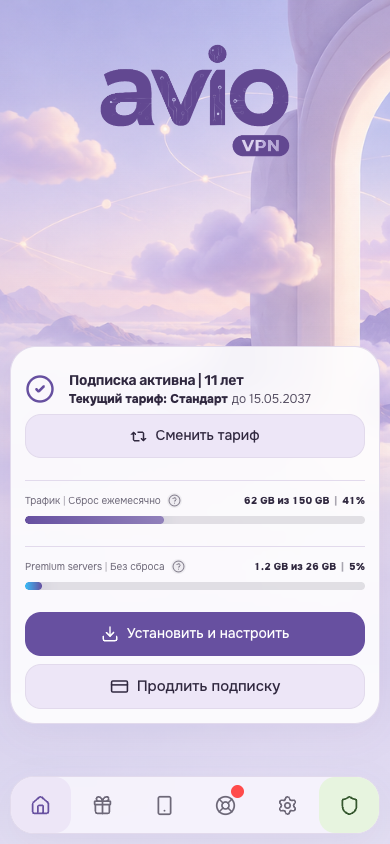
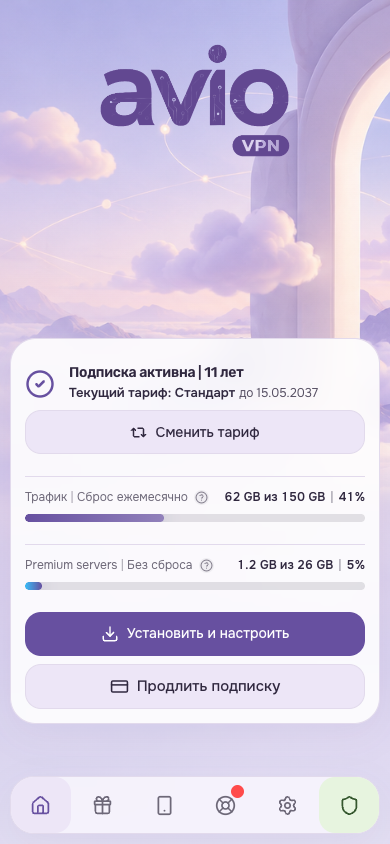
Improve typography across theme screens

Changed region(s): [[0.0615, 0.5545, 0.9538, 0.6777], [0.0308, 0.4005, 0.8923, 0.5237], [0.9231, 0.4005, 0.9846, 0.4313]]

diff --git a/style.css b/style.css
@@ -573,6 +573,134 @@
   gap: 6px;
 }
 
+/* Typography pass: keep dense Core UI readable on narrow mobile screens. */
+.theme-key-avio-landing .sub-status .current-tariff-line {
+  overflow: visible;
+  font-size: 13px;
+  font-weight: 600;
+  line-height: 1.4;
+  text-overflow: clip;
+  white-space: normal;
+}
+.theme-key-avio-landing .premium-summary-copy {
+  min-width: 0;
+  overflow: visible;
+  font-size: 12px;
+  font-weight: 400;
+  line-height: 1.4;
+  text-overflow: clip;
+  white-space: normal;
+}
+.theme-key-avio-landing .traffic-summary-right {
+  font-size: 12px;
+  font-weight: 600;
+  line-height: 1.4;
+}
+.theme-key-avio-landing .support-status-tabs-trigger {
+  font-size: 13px;
+  font-weight: 600;
+  line-height: 1.35;
+}
+.theme-key-avio-landing .support-status-tabs-trigger > span {
+  line-height: inherit;
+}
+.theme-key-avio-landing .support-field > span {
+  font-size: 13px;
+  font-weight: 600;
+  line-height: 1.4;
+}
+.theme-key-avio-landing .support-field > small {
+  font-size: 12px;
+  font-weight: 400;
+  line-height: 1.45;
+}
+.theme-key-avio-landing .support-select-trigger {
+  font-size: 14px;
+  font-weight: 600;
+  line-height: 1.4;
+}
+.theme-key-avio-landing .support-ticket-screen .screen-head small {
+  font-weight: 500;
+}
+.theme-key-avio-landing .ticket-detail-title small {
+  font-weight: 500;
+}
+.theme-key-avio-landing .settings-row strong {
+  font-size: 13px;
+  font-weight: 600;
+  line-height: 1.35;
+}
+.theme-key-avio-landing .settings-row small {
+  overflow: visible;
+  font-size: 12px;
+  font-weight: 400;
+  line-height: 1.45;
+  overflow-wrap: anywhere;
+  text-overflow: clip;
+  white-space: normal;
+}
+.theme-key-avio-landing .emoji-flag {
+  line-height: 1.25;
+}
+.theme-key-avio-landing .device-card-head strong {
+  font-weight: 600;
+}
+.theme-key-avio-landing .device-card-head .device-client-label {
+  font-weight: 500;
+}
+.theme-key-avio-landing .device-card-head small,
+.theme-key-avio-landing .device-meta span {
+  font-size: 12px;
+  font-weight: 400;
+  line-height: 1.4;
+}
+.theme-key-avio-landing .device-meta strong {
+  font-size: 13px;
+  font-weight: 600;
+  line-height: 1.4;
+}
+.theme-key-avio-landing .gift-card-heading strong,
+.theme-key-avio-landing .referral-bonus-row strong {
+  font-weight: 600;
+}
+.theme-key-avio-landing .gift-status {
+  font-size: 12px;
+  font-weight: 600;
+  line-height: 1.35;
+}
+.theme-key-avio-landing .gift-details {
+  font-size: 13px;
+  line-height: 1.4;
+}
+.theme-key-avio-landing .install-section-title {
+  font-size: 13px;
+  font-weight: 600;
+  line-height: 1.4;
+}
+.theme-key-avio-landing .payment-method-picker-label {
+  font-size: 12px;
+  font-weight: 600;
+  line-height: 1.4;
+}
+.theme-key-avio-landing .payment-method-select-trigger {
+  font-weight: 600;
+}
+.theme-key-avio-landing .balance-title-row strong {
+  font-weight: 600;
+}
+.theme-key-avio-landing .bottom-nav-label {
+  font-weight: 600;
+  line-height: 1.25;
+}
+.theme-key-avio-landing .auth-legal {
+  font-size: 12px;
+  line-height: 1.55;
+}
+.theme-key-avio-landing .auth-language-trigger,
+.theme-key-avio-landing .auth-language-trigger > span {
+  line-height: 1.35;
+}
+
 /* Current Core mirrors tokens onto html, including controls portalled to body. */
 html.theme-key-avio-landing :is(.app-toast, .language-select-content, .install-platform-content, .support-select-content, .field-error-tooltip) {
   background: var(--panel);

diff --git a/README.md b/README.md
@@ -1,7 +1,7 @@
 # Avio — Твой интернет
 
-Версия 1.5.0: облегчённая типографика окна оплаты, более спокойный информационный
-блок и карточки периодов с чёткой иерархией срока, цены и стоимости за месяц.
+Версия 1.5.1: единая читаемая типографика на главной, в поддержке, настройках,
+устройствах и бонусах. Длинные подписи переносятся без обрезания на узких экранах.
 
 Установить тему можно по адресу этого публичного репозитория или ZIP-архивом
 из раздела Releases.
